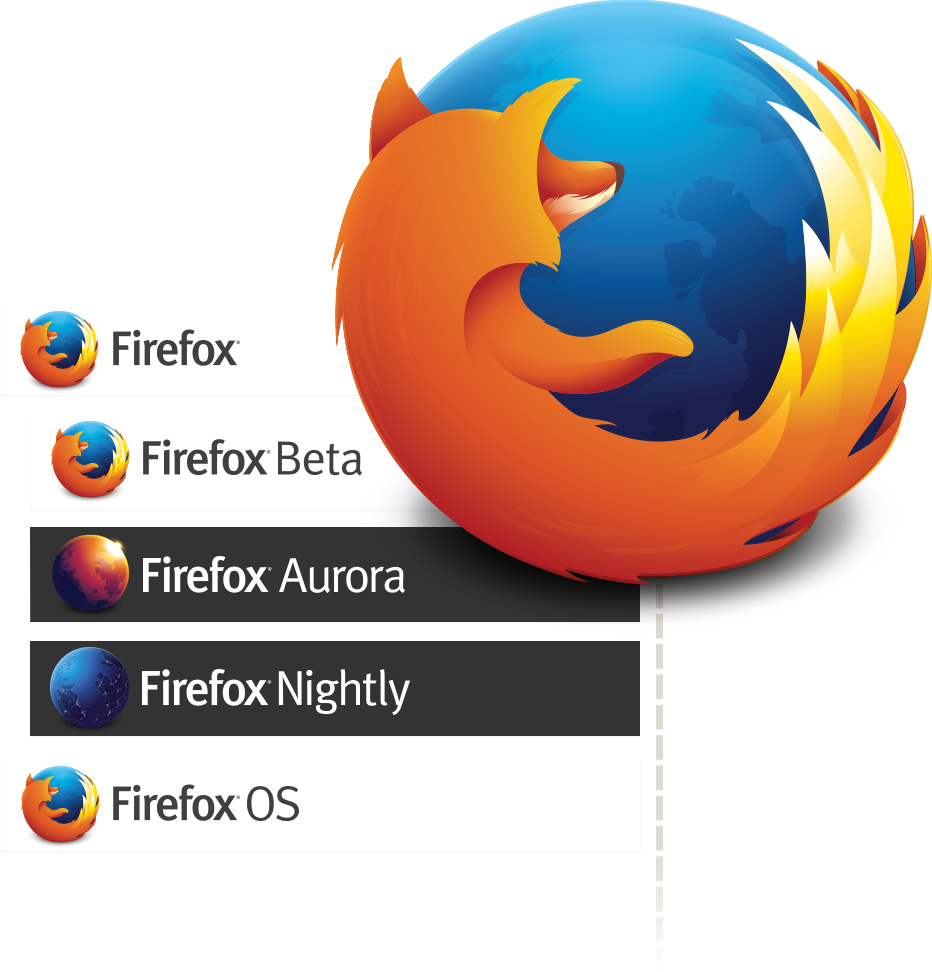
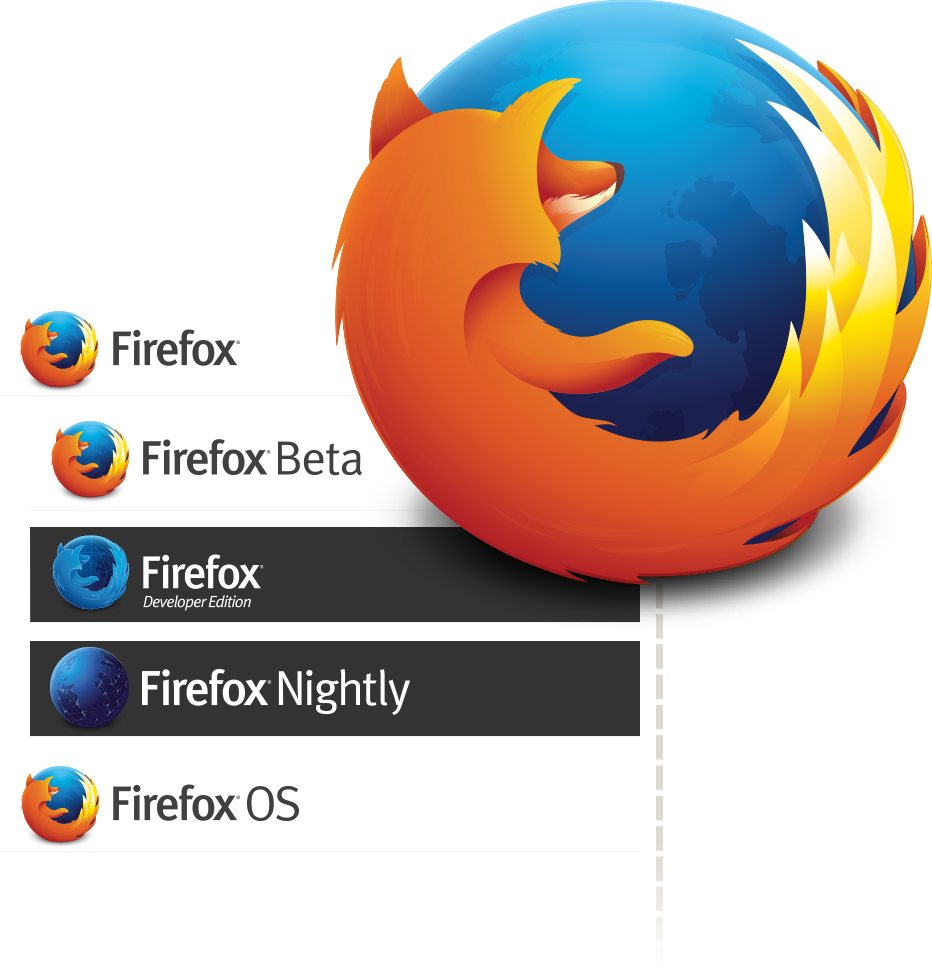
Update Style guide for Firefox Developer Edition Bug 1082825

Changed region(s): [[0.0311, 0.5247, 0.4356, 0.6481]]

diff --git a/bedrock/styleguide/templates/styleguide/identity/firefox-channels.html b/bedrock/styleguide/templates/styleguide/identity/firefox-channels.html
@@ -18,16 +18,6 @@
 </section>
 <section id="firefox">
   <h2>Firefox</h2>
-  <div class="channel">
-    <h4>Channel</h4>
-    <p>Final Release</p>
-    <h4>Audience</h4>
-    <p>Mainstream Web users (100,000,000s)</p>
-    <h4>Tone</h4>
-    <p>Friendly, accessible, trusted</p>
-    <h4>Visual direction</h4>
-    <p>Crisp, clean, light blue/grey grain as background</p>
-  </div>
   <div class="logo"><img src="{{ media('/img/styleguide/identity/firefox/channels-firefox.png?2013-06') }}" alt="Logo" /></div>
   <div class="download">
     <h4>Download</h4>
@@ -40,16 +30,6 @@
 </section>
 <section id="firefox-beta">
   <h2>Firefox Beta</h2>
-  <div class="channel">
-    <h4>Channel</h4>
-    <p>Beta</p>
-    <h4>Audience</h4>
-    <p>Non-technical early adopters (10,000,000s)</p>
-    <h4>Tone</h4>
-    <p>Friendly, accessible, mix of cutting edge and stable</p>
-    <h4>Visual direction</h4>
-    <p>Crisp, clean, light blue/grey grain as background*</p>
-  </div>
   <div class="logo"><img src="{{ media('/img/styleguide/identity/firefox/channels-firefox-beta.png?2013-06') }}" alt="Logo" /></div>
   <div class="download">
     <h4>Download <span>(with beta sash)</span></h4>
@@ -61,40 +41,8 @@
       <p>* In contexts where two Firefox logos can be displayed next to each other (ex. mobile desktops), the version with the Beta sash should be used for added clarity.</p>
   </div>
 </section>
-<section id="firefox-aurora">
-  <h2>Firefox Aurora</h2>
-  <div class="channel">
-    <h4>Channel</h4>
-    <p>Aurora</p>
-    <h4>Audience</h4>
-    <p>Technical early adopters (1,000,000s)</p>
-    <h4>Tone</h4>
-    <p>Exciting, edgier, more attitude</p>
-    <h4>Visual direction</h4>
-    <p>Branding works best on dark backgrounds, purple as primary Web color</p>
-  </div>
-  <div class="logo"><img src="{{ media('/img/styleguide/identity/firefox/channels-firefox-aurora.png?2013-06') }}" alt="Logo" /></div>
-  <div class="download">
-    <h4>Download</h4>
-    <ul class="button-list">
-      <li><a href="https://assets.mozilla.org/Brands-Logos/Firefox/logo-only/firefox-aurora_logo-only_CMYK.eps" class="button-sand">EPS</a></li>
-      <li><a href="https://assets.mozilla.org/Brands-Logos/Firefox/logo-only/firefox-aurora_logo-only_RGB-300dpi.jpg" class="button-sand">JPG (300dpi)</a></li>
-      <li><a href="https://assets.mozilla.org/Brands-Logos/Firefox/logo-only/firefox-aurora_logo-only_RGB.png" class="button-sand">PNG</a></li>
-    </ul>
-  </div>
-</section>
 <section id="firefox-nightly">
   <h2>Firefox Nightly</h2>
-  <div class="channel">
-    <h4>Channel</h4>
-    <p>Nightly</p>
-    <h4>Audience</h4>
-    <p>Extremely technical early adopters (100,000s)</p>
-    <h4>Tone</h4>
-    <p>Developer-focused, not too inviting</p>
-    <h4>Visual direction</h4>
-    <p>Branding works best on dark backgrounds, dark blue as primary Web color</p>
-  </div>
   <div class="logo"><img src="{{ media('/img/styleguide/identity/firefox/channels-firefox-nightly.png?2013-06') }}" alt="Logo" /></div>
   <div class="download">
     <h4>Download</h4>
@@ -102,6 +50,18 @@
       <li><a href="https://assets.mozilla.org/Brands-Logos/Firefox/logo-only/firefox-nightly_logo-only_CMYK.eps" class="button-sand">EPS</a></li>
       <li><a href="https://assets.mozilla.org/Brands-Logos/Firefox/logo-only/firefox-nightly_logo-only_RGB-300dpi.jpg" class="button-sand">JPG (300dpi)</a></li>
       <li><a href="https://assets.mozilla.org/Brands-Logos/Firefox/logo-only/firefox-nightly_logo-only_RGB.png" class="button-sand">PNG</a></li>
+    </ul>
+  </div>
+</section>
+<section id="firefox-developer">
+  <h2>Firefox Developer Edition</h2>
+  <div class="logo"><img src="{{ media('/img/styleguide/identity/firefox/channels-firefox-developer.png?2014-11') }}" alt="Logo" /></div>
+  <div class="download">
+    <h4>Download</h4>
+    <ul class="button-list">
+      <li><a href="https://assets.mozilla.org/Brands-Logos/Firefox/logo-only/firefox-developer_logo-only_CMYK.eps" class="button-sand">EPS</a></li>
+      <li><a href="https://assets.mozilla.org/Brands-Logos/Firefox/logo-only/firefox-developer_logo-only_RGB-300dpi.jpg" class="button-sand">JPG (300dpi)</a></li>
+      <li><a href="https://assets.mozilla.org/Brands-Logos/Firefox/logo-only/firefox-developer_logo-only_RGB.png" class="button-sand">PNG</a></li>
     </ul>
   </div>
 </section>

diff --git a/bedrock/styleguide/templates/styleguide/identity/firefox-wordmarks.html b/bedrock/styleguide/templates/styleguide/identity/firefox-wordmarks.html
@@ -75,32 +75,6 @@
     </ul>
   </div>
 </section>
-<section id="firefox-aurora">
-  <div class="build">
-    <h2>Firefox Aurora</h2>
-    <p>The Firefox Aurora wordmark uses our standard product + sub-brand <a href="{{ url('styleguide.communications.typefaces') }}#wordmarks">tiered font system</a> and a special standard of white on dark.</p>
-  </div>
-  <div class="logo">
-    <img src="{{ media('/img/styleguide/box-arrow-left.png?2013-06') }}" alt="" class="box-arrow" />
-    <img src="{{ media('/img/styleguide/identity/firefox/wordmark-aurora-logo.png?2013-06') }}" alt="Logo" />
-    <img src="{{ media('/img/styleguide/identity/firefox/wordmark-aurora.png?2013-06') }}" alt="Logo" />
-  </div>
-  <div class="download">
-    <h4>Download</h4>
-    <p>Wordmark + logo</p>
-    <ul class="button-list">
-      <li><a href="https://assets.mozilla.org/Brands-Logos/Firefox/logo-wordmark/firefox-aurora_logo-wordmark_CMYK.eps" class="button-sand">EPS</a></li>
-      <li><a href="https://assets.mozilla.org/Brands-Logos/Firefox/logo-wordmark/firefox-aurora_logo-wordmark_RGB-300dpi.jpg" class="button-sand">JPG (300dpi)</a></li>
-      <li><a href="https://assets.mozilla.org/Brands-Logos/Firefox/logo-wordmark/firefox-aurora_logo-wordmark_RGB.png" class="button-sand">PNG</a></li>
-    </ul>
-    <p>Wordmark only</p>
-    <ul class="button-list">
-      <li><a href="https://assets.mozilla.org/Brands-Logos/Firefox/wordmark-only/firefox-aurora_wordmark-only_CS4.eps" class="button-sand">EPS</a></li>
-      <li><a href="https://assets.mozilla.org/Brands-Logos/Firefox/wordmark-only/firefox-aurora_wordmark-only_RGB-300dpi.jpg" class="button-sand">JPG (300dpi)</a></li>
-      <li><a href="https://assets.mozilla.org/Brands-Logos/Firefox/wordmark-only/firefox-aurora_wordmark-only_RGB.png" class="button-sand">PNG</a></li>
-    </ul>
-  </div>
-</section>
 <section id="firefox-nightly">
   <div class="build">
     <h2>Firefox Nightly</h2>
@@ -124,6 +98,31 @@
       <li><a href="https://assets.mozilla.org/Brands-Logos/Firefox/wordmark-only/firefox-nightly_wordmark-only_CS4.eps" class="button-sand">EPS</a></li>
       <li><a href="https://assets.mozilla.org/Brands-Logos/Firefox/wordmark-only/firefox-nightly_wordmark-only_RGB-300dpi.jpg" class="button-sand">JPG (300dpi)</a></li>
       <li><a href="https://assets.mozilla.org/Brands-Logos/Firefox/wordmark-only/firefox-nightly_wordmark-only_RGB.png" class="button-sand">PNG</a></li>
+    </ul>
+  </div>
+</section>
+<section id="firefox-developer">
+  <div class="build">
+    <h2>Firefox Developer Edition</h2>
+  </div>
+  <div class="logo">
+    <img src="{{ media('/img/styleguide/box-arrow-left.png?2013-06') }}" alt="" class="box-arrow" />
+    <img src="{{ media('/img/styleguide/identity/firefox/wordmark-developer-logo.png?2014-11') }}" alt="Logo" />
+    <img src="{{ media('/img/styleguide/identity/firefox/wordmark-developer.png?2014-11') }}" alt="Logo" />
+  </div>
+  <div class="download">
+    <h4>Download</h4>
+    <p>Wordmark + logo</p>
+    <ul class="button-list">
+      <li><a href="https://assets.mozilla.org/Brands-Logos/Firefox/logo-wordmark/firefox-developer_logo-wordmark_CMYK.eps" class="button-sand">EPS</a></li>
+      <li><a href="https://assets.mozilla.org/Brands-Logos/Firefox/logo-wordmark/firefox-developer_logo-wordmark_RGB-300dpi.jpg" class="button-sand">JPG (300dpi)</a></li>
+      <li><a href="https://assets.mozilla.org/Brands-Logos/Firefox/logo-wordmark/firefox-developer_logo-wordmark_RGB.png" class="button-sand">PNG</a></li>
+    </ul>
+    <p>Wordmark only</p>
+    <ul class="button-list">
+      <li><a href="https://assets.mozilla.org/Brands-Logos/Firefox/wordmark-only/firefox-developer_wordmark-only_CMYK.eps" class="button-sand">EPS</a></li>
+      <li><a href="https://assets.mozilla.org/Brands-Logos/Firefox/wordmark-only/firefox-developer_wordmark-only_RGB-300dpi.jpg" class="button-sand">JPG (300dpi)</a></li>
+      <li><a href="https://assets.mozilla.org/Brands-Logos/Firefox/wordmark-only/firefox-developer_wordmark-only_RGB.png" class="button-sand">PNG</a></li>
     </ul>
   </div>
 </section>

diff --git a/bedrock/styleguide/templates/styleguide/communications/copy-rules.html b/bedrock/styleguide/templates/styleguide/communications/copy-rules.html
@@ -26,7 +26,6 @@
 <section id="az">
   <div class="intro">
     <h2>A–Z</h2>
-    <p>(eh-to-zee)</p>
   </div>
   <dl>
     <dt>a11y</dt>
@@ -40,7 +39,7 @@
     <dt>capitalization</dt>
     <dd>unless there is an entry stating otherwise, please capitalize the following: brands and products (Mozilla, Firefox, Persona, Marketplace, etc.); features (Panorama, etc.); acronyms (URL, etc.). URLs themselves (mozilla.org, firefox.com, etc.) are lowercase</dd>
     <dt>channels</dt>
-    <dd>our term for the various builds of Firefox (Nightly, Aurora, Beta, Final Release) and Thunderbird (Daily, Earlybird, Beta, Final Release); please avoid in user-facing communications</dd>
+    <dd>our term for the various builds of our products; please avoid in user-facing communications</dd>
     <dt>customers</dt>
     <dd>do not use: we refer to “users” or “people”</dd>
     <dt>double-click</dt>
@@ -59,14 +58,14 @@
     <dd>accounts is capitalized when it follows Firefox, lowercase when on its own; it can be singular or plural as needed and is always localized</dd>
     <dt>Firefox Add-ons</dt>
     <dd>add-ons is capitalized when it follows Firefox, lowercase when on its own, though the O is always lowercase; it can be singular or plural as needed and is always localized</dd>
-    <dt>Firefox Aurora</dt>
-    <dd>Firefox Aurora on first mention, Aurora on subsequent mentions, always capitalized</dd>
     <dt>Firefox Beta</dt>
     <dd>Firefox Beta on first mention, Beta on subsequent mentions, always capitalized</dd>
     <dt>Firefox Beta for mobile</dt>
     <dd>“Beta for mobile” is also acceptable, but never “mobile Beta;” mobile is always lowercase</dd>
     <dt>Firefox browser</dt>
     <dd>use this to differentiate from the Firefox family of products or from another specific Firefox product (Firefox Marketplace, Firefox OS, etc.); browser is always lowercase</dd>
+    <dt>Firefox Developer Edition</dt>
+    <dd>Firefox Developer Edition on first mention, Developer Edition on subsequent mentions, both words always capitalized</dd>
     <dt>Firefox for Android</dt>
     <dd>use this in most cases when referring to the mobile browser (see also “Firefox browser”); Android is always capitalized; never “Firefox Android,” “Firefox on Android” or any other variation</dd>
     <dt>Firefox for desktop</dt>

diff --git a/media/css/styleguide/identity-firefox.less b/media/css/styleguide/identity-firefox.less
@@ -130,22 +130,16 @@
     }
     #firefox,
     #firefox-beta,
-    #firefox-aurora {
+    #firefox-nightly {
         .divider;
     }
     #firefox,
     #firefox-beta,
-    #firefox-aurora,
-    #firefox-nightly {
+    #firefox-nightly,
+    #firefox-developer {
         float: left;
         h2 {
-            .span_guide(2);
-        }
-        .channel {
             .span_guide(3);
-            h4 {
-                margin: 0;
-            }
         }
         .logo {
             .span_guide(4);
@@ -184,13 +178,13 @@
     }
     #firefox,
     #firefox-beta,
-    #firefox-aurora {
+    #firefox-nightly {
         .divider;
     }
     #firefox,
     #firefox-beta,
-    #firefox-aurora,
-    #firefox-nightly {
+    #firefox-nightly,
+    #firefox-developer {
         float: left;
         .build {
             .span_guide(3);
@@ -257,12 +251,10 @@
     #swatch-yellow .swatch { background-color: #ffcb00; }
     #swatch-blue .swatch { background-color: #00539f; }
     #swatch-light-blue .swatch { background-color: #0095dd; }
-    #swatch-aurora-purple .swatch { background-color: #331e54; }
     #swatch-nightly-blue .swatch { background-color: #002147; }
     #swatch-firefox .swatch { #gradient > .vertical(#e66000, #bb2200); }
     #swatch-blue-grey .swatch { #gradient > .vertical(#eaeff2, #d4dde4); }
     #swatch-dark-blue .swatch { #gradient > .vertical(#6a7b86, #424f5a); }
-    #swatch-aurora .swatch { #gradient > .vertical(#331e54, #000000); }
     #swatch-nightly .swatch { #gradient > .vertical(#002147, #000000); }
 }
 

diff --git a/bedrock/styleguide/templates/styleguide/identity/firefox-color.html b/bedrock/styleguide/templates/styleguide/identity/firefox-color.html
@@ -142,10 +142,10 @@
         <th></th> <td></td>
     </table>
   </div>
-  <div class="swatch-card" id="swatch-aurora">
+  <div class="swatch-card" id="swatch-nightly">
     <div class="swatch"></div>
-    <h4>Aurora</h4>
-    <p><b>#331E54 to #000000</b></p>
+    <h4>Nightly</h4>
+    <p><b>#002147 to #000000</b></p>
   </div>
   <div class="swatch-card clear" id="swatch-light-blue">
     <div class="swatch"></div>
@@ -170,37 +170,6 @@
       <tr>
         <th></th> <td></td>
         <th>K</th> <td>0</td>
-        <th></th> <td></td>
-    </table>
-  </div>
-  <div class="swatch-card" id="swatch-nightly">
-    <div class="swatch"></div>
-    <h4>Nightly</h4>
-    <p><b>#002147 to #000000</b></p>
-  </div>
-  <div class="swatch-card clear" id="swatch-aurora-purple">
-    <div class="swatch"></div>
-    <h4>Aurora purple</h4>
-    <p><b>#331E54 / Pantone 2695 C</b></p>
-    <table>
-      <tr>
-        <th>H</th> <td>263</td>
-        <th>C</th> <td>92</td>
-        <th>R</th> <td>51</td>
-      </tr>
-      <tr>
-        <th>S</th> <td>65</td>
-        <th>M</th> <td>100</td>
-        <th>G</th> <td>30</td>
-      </tr>
-      <tr>
-        <th>B</th> <td>33</td>
-        <th>Y</th> <td>35</td>
-        <th>B</th> <td>84</td>
-      </tr>
-      <tr>
-        <th></th> <td></td>
-        <th>K</th> <td>31</td>
         <th></th> <td></td>
     </table>
   </div>

diff --git a/bedrock/styleguide/templates/styleguide/identity/firefox-family-overview.html b/bedrock/styleguide/templates/styleguide/identity/firefox-family-overview.html
@@ -14,6 +14,6 @@
 {% block content_area %}
 <section id="intro">
   <p>Firefox is more than a browser (though it certainly is that). It’s the flagship brand that all our consumer products fall under. Any product bearing the Firefox name lets people know that it features the latest open, innovative technologies and that it’s made with a mission to keep the power of the Web in people’s hands and to build a brighter Internet future for all. The following pages go through each brand and its various elements in detail.</p>
-  <img src="{{ media('/img/styleguide/identity/firefox-family/overview.png?2013-06') }}" alt="Logo" />
+  <img src="{{ media('/img/styleguide/identity/firefox-family/overview.png?2014-11') }}" alt="Logo" />
 </section>
 {% endblock %}
